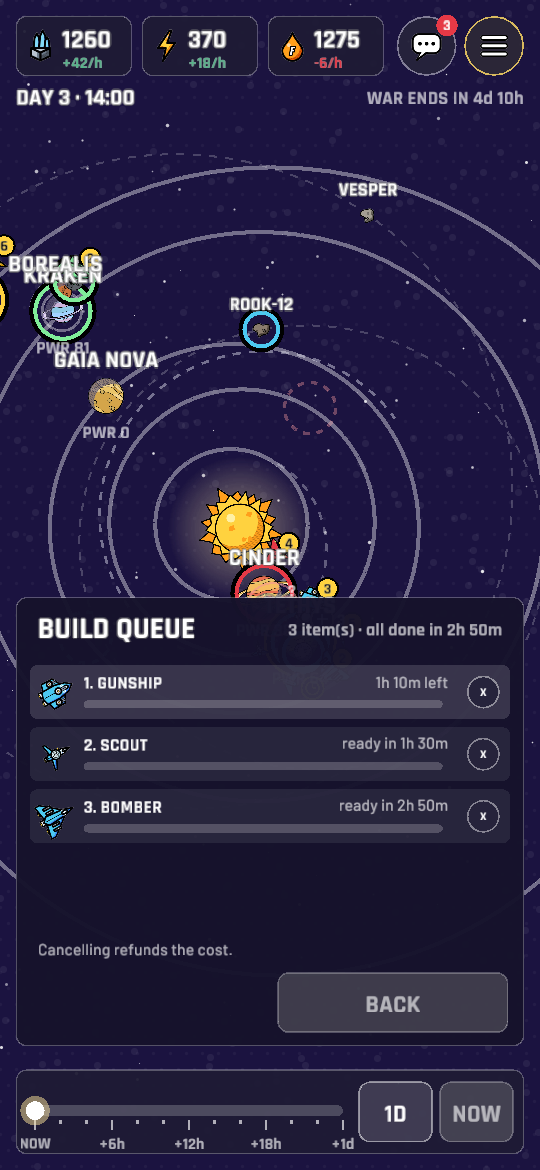
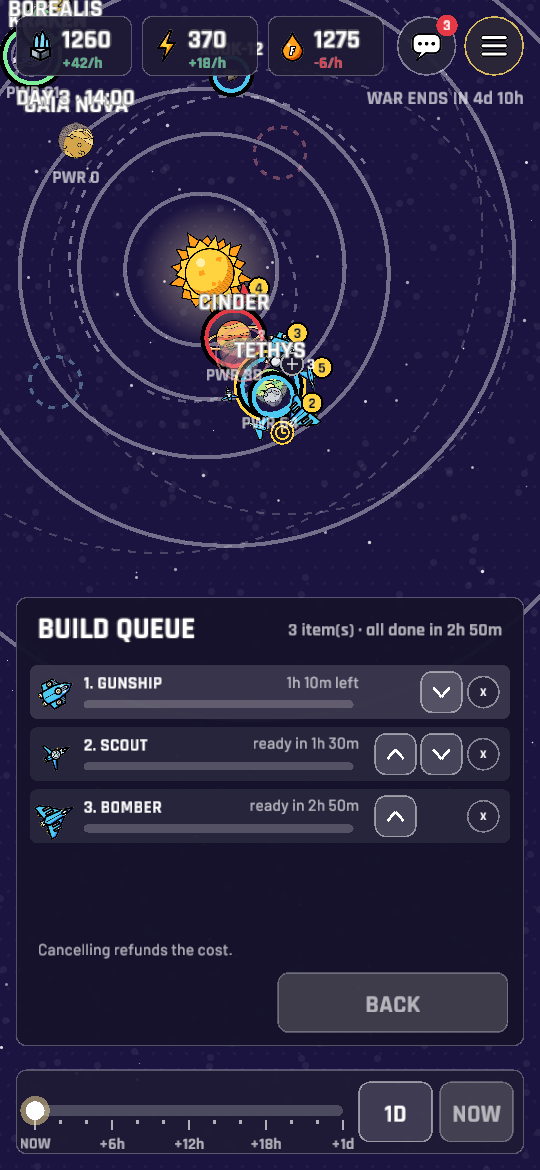
ui: reorder the build queue (up/down → UiAction::MoveJob, mapped to Command::MoveJob)

diff --git a/crates/ui/src/game/details.rs b/crates/ui/src/game/details.rs
@@ -134,8 +134,23 @@ pub fn draw(g: &mut GameScreen, inp: &mut Input, be: &dyn Backend, view: &GameVi
                 }
                 text(&format!("{}. {}", i + 1, label.to_uppercase()), rr.x + 40.0 * s(), rr.y + 13.0 * s(), 13.0, PAPER, FontKind::Title, Align::Left);
                 let eta = if i == 0 { format!("{} left", fmt_dur(done - view.now)) } else { format!("ready in {}", fmt_dur(done - view.now)) };
-                text(&eta, rr.x + rr.w - 46.0 * s(), rr.y + 13.0 * s(), 12.0, MUTED, FontKind::Body, Align::Right);
-                widgets::bar(Rect::new(rr.x + 40.0 * s(), rr.y + 26.0 * s(), rr.w - 90.0 * s(), 6.0 * s()), frac, if i == 0 { ACCENT } else { Color::new(1.0, 1.0, 1.0, 0.25) });
+                text(&eta, rr.x + rr.w - 112.0 * s(), rr.y + 13.0 * s(), 12.0, MUTED, FontKind::Body, Align::Right);
+                widgets::bar(Rect::new(rr.x + 40.0 * s(), rr.y + 26.0 * s(), rr.w - 156.0 * s(), 6.0 * s()), frac, if i == 0 { ACCENT } else { Color::new(1.0, 1.0, 1.0, 0.25) });
+                // reorder: up / down
+                let n = info.queue.len();
+                for (k, (dir, to)) in [(-1.0f32, i.checked_sub(1)), (1.0, (i + 1 < n).then_some(i + 1))].into_iter().enumerate() {
+                    let br = Rect::new(rr.x + rr.w - 100.0 * s() + k as f32 * 34.0 * s(), rr.y + 5.0 * s(), 30.0 * s(), rr.h - 10.0 * s());
+                    let Some(to) = to else { continue };
+                    if widgets::button(inp, br, "", Style::Secondary) {
+                        art::sfx("menu_select");
+                        g.emit(UiAction::MoveJob { body: *body, from: i, to });
+                    }
+                    let c = br.center();
+                    // chevron: apex up for "earlier", down for "later"
+                    let a = 3.5 * s() * dir;
+                    draw_line(c.x - 6.0 * s(), c.y - a, c.x, c.y + a, 2.0 * s(), PAPER);
+                    draw_line(c.x, c.y + a, c.x + 6.0 * s(), c.y - a, 2.0 * s(), PAPER);
+                }
                 let xr = vec2(rr.x + rr.w - 20.0 * s(), rr.center().y);
                 if widgets::round_button(inp, xr, 11.0 * s(), "X", PAPER, 0) {
                     art::sfx("menu_close");

diff --git a/crates/ui/src/demo.rs b/crates/ui/src/demo.rs
@@ -578,6 +578,19 @@ impl Backend for DemoBackend {
             }
             UiAction::BackToMenu => self.view = None,
             UiAction::Reconnect => {}
+            UiAction::MoveJob { body, from, to } => {
+                let ids: Vec<usize> = (0..self.queue.len()).filter(|&i| self.queue[i].0 == body).collect();
+                if let (Some(&a), Some(&b)) = (ids.get(from), ids.get(to)) {
+                    let start = ids.first().map(|&i| self.queue[i].2 - ship_cost(self.queue[i].3).seconds).unwrap_or(self.now());
+                    self.queue.swap(a, b);
+                    // recompute finish times in the new order
+                    let mut t = start;
+                    for &i in &ids {
+                        t += ship_cost(self.queue[i].3).seconds;
+                        self.queue[i].2 = t;
+                    }
+                }
+            }
             UiAction::CancelJob { body, index } => {
                 let ids: Vec<usize> = (0..self.queue.len()).filter(|&i| self.queue[i].0 == body).collect();
                 if let Some(&qi) = ids.get(index) {

diff --git a/crates/client/src/backend.rs b/crates/client/src/backend.rs
@@ -934,6 +934,11 @@ impl Backend for ClientBackend {
                 }
             }
             UiAction::DismissReport => self.report = None,
+            UiAction::MoveJob { body, from, to } => {
+                if let Some(code) = code.clone() {
+                    self.send(ClientMsg::Cmd { code, cmd: Command::MoveJob { body: SimBody(body), from, to } });
+                }
+            }
             UiAction::CancelJob { body, index } => {
                 if let Some(code) = code {
                     self.send(ClientMsg::Cmd { code, cmd: Command::CancelJob { body: SimBody(body), index } });

diff --git a/crates/ui/src/backend.rs b/crates/ui/src/backend.rs
@@ -49,6 +49,8 @@ pub enum UiAction {
     Reconnect,
     /// Remove item `index` (0 = building now) from a body's build queue, refunding its cost.
     CancelJob { body: BodyId, index: usize },
+    /// Move queue item `from` to position `to` (indices into `BodyInfo.queue`).
+    MoveJob { body: BodyId, from: usize, to: usize },
     /// Start `tech` (a `TechInfo::id`) at a lab body.
     Research { body: BodyId, tech: String },
     /// `kind` is one of `model::STATION_KINDS`.
